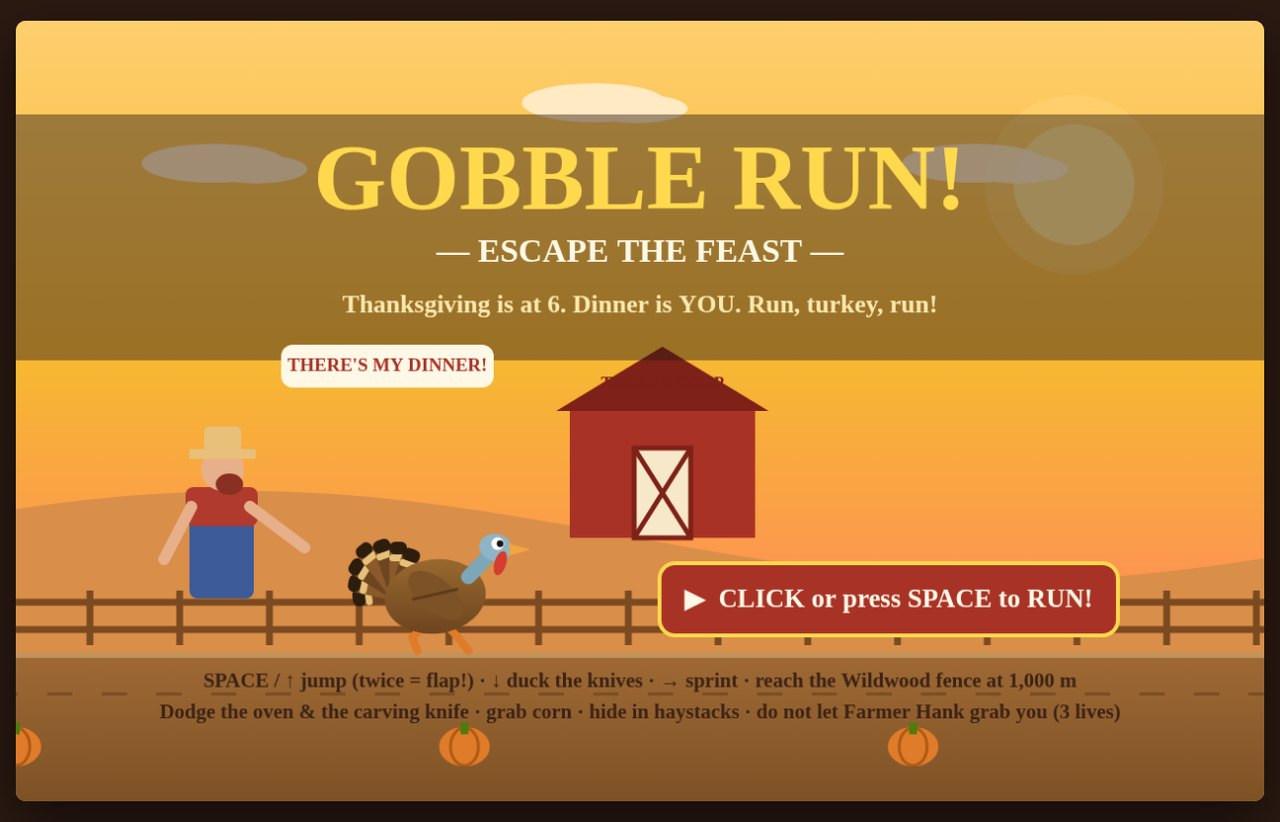
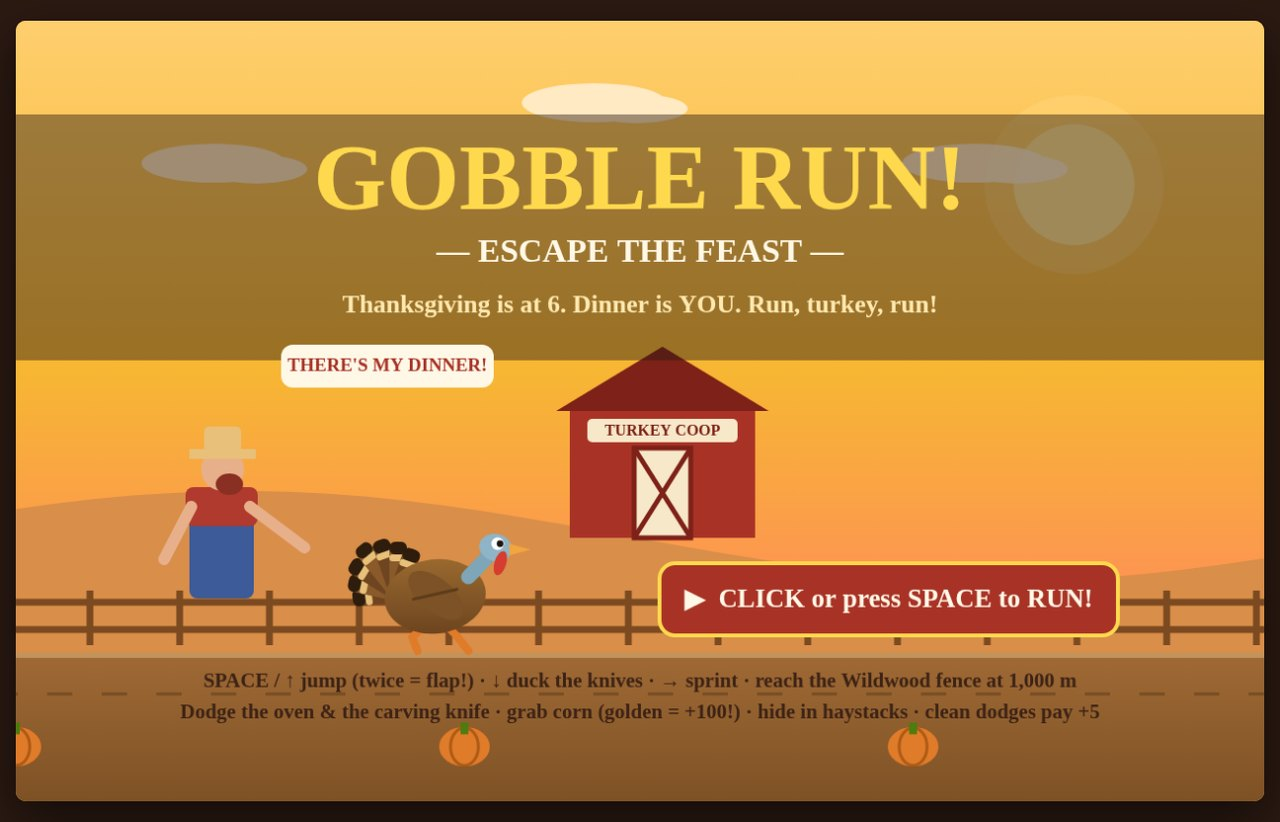
Gobble Run! v2: golden corn, dodge bonuses, floaters, polish

Changed region(s): [[0.125, 0.8516, 0.875, 0.882], [0.4375, 0.4866, 0.5938, 0.5474]]

diff --git a/game/src/render.js b/game/src/render.js
@@ -144,7 +144,10 @@ function drawBarn(ctx, x, baseY) {
   ctx.beginPath();
   ctx.moveTo(x + 66, baseY - 92); ctx.lineTo(x + 124, baseY); ctx.moveTo(x + 124, baseY - 92); ctx.lineTo(x + 66, baseY);
   ctx.stroke();
-  text(ctx, 'TURKEY COOP', x + 95, baseY - 158, 17, '#7e2118');
+  // cream sign on the barn wall, readable at a glance
+  ctx.fillStyle = '#f7e8c9';
+  roundRect(ctx, x + 18, baseY - 122, 154, 24, 5); ctx.fill();
+  text(ctx, 'TURKEY COOP', x + 95, baseY - 109, 16, '#7e2118');
 }
 
 function drawPumpkin(ctx, x, y, r) {
@@ -408,8 +411,14 @@ export function drawCorn(ctx, c, time) {
   const y = c.y + Math.sin(time * 3 + c.bob) * 5;
   ctx.save();
   ctx.translate(c.x, y);
+  if (c.golden) { // the golden corn glows and runs larger
+    const pulse = 1 + Math.sin(time * 6 + c.bob) * 0.1;
+    ctx.scale(1.45 * pulse, 1.45 * pulse);
+    ctx.fillStyle = 'rgba(255, 217, 77, 0.35)';
+    ctx.beginPath(); ctx.arc(0, 0, 34, 0, 6.29); ctx.fill();
+  }
   ctx.rotate(Math.sin(time * 2 + c.bob) * 0.16);
-  ctx.fillStyle = '#ffd94d';
+  ctx.fillStyle = c.golden ? '#ffbe1e' : '#ffd94d';
   ctx.beginPath(); ctx.ellipse(0, 0, 13, 24, 0, 0, 6.29); ctx.fill();
   ctx.strokeStyle = '#d9a514'; ctx.lineWidth = 2;
   for (let r = -14; r <= 14; r += 9) {
@@ -497,7 +506,7 @@ export function drawTitleScreen(ctx, run, pose) {
   text(ctx, '▶  CLICK or press SPACE to RUN!', 895, 594, 27, '#fff8e7');
   text(ctx, 'SPACE / ↑ jump (twice = flap!) · ↓ duck the knives · → sprint · reach the Wildwood fence at 1,000 m',
     VIEW_WIDTH / 2, 678, 21, '#3d2317');
-  text(ctx, 'Dodge the oven & the carving knife · grab corn · hide in haystacks · do not let Farmer Hank grab you (3 lives)',
+  text(ctx, 'Dodge the oven & the carving knife · grab corn (golden = +100!) · hide in haystacks · clean dodges pay +5',
     VIEW_WIDTH / 2, 710, 21, '#3d2317');
 }
 
@@ -562,6 +571,36 @@ export function drawEndScreen(ctx, run) {
   else text(ctx, 'Tip: a perfect run banks +100 per life left. Can you keep all three?', VIEW_WIDTH / 2, 610, 21, '#ffe9b0');
 }
 
+export function drawFloaters(ctx, run) {
+  for (const fl of run.floaters) {
+    ctx.save();
+    ctx.globalAlpha = Math.min(1, fl.life * 1.8);
+    ctx.font = "bold 21px Georgia, serif";
+    ctx.textAlign = 'center';
+    ctx.textBaseline = 'middle';
+    ctx.lineWidth = 4;
+    ctx.strokeStyle = 'rgba(43,26,18,0.8)';
+    ctx.strokeText(fl.label, fl.x, fl.y);
+    ctx.fillStyle = fl.colour;
+    ctx.fillText(fl.label, fl.x, fl.y);
+    ctx.restore();
+  }
+}
+
+export function drawSpeedLines(ctx, run) {
+  if (!run.sprinting || run.phase !== 'run') return;
+  ctx.strokeStyle = 'rgba(255, 248, 231, 0.5)';
+  ctx.lineWidth = 3;
+  for (let i = 0; i < 5; i++) {
+    const y = 240 + i * 78 + Math.sin(run.time * 31 + i * 2.1) * 9;
+    const len = 60 + ((i * 53) % 70);
+    ctx.beginPath();
+    ctx.moveTo(TURKEY.x - 130 - i * 26, y);
+    ctx.lineTo(TURKEY.x - 130 - i * 26 - len, y);
+    ctx.stroke();
+  }
+}
+
 export function drawScene(ctx, run, scroll) {
   const stage = stageAt(run.metres);
   if (stage === 'kitchen') drawKitchen(ctx, scroll, run.time);
@@ -579,9 +618,11 @@ export function drawScene(ctx, run, scroll) {
   }
   for (const ob of run.obstacles) drawObstacle(ctx, ob, run);
   for (const c of run.corns) if (!c.taken) drawCorn(ctx, c, run.time);
+  drawSpeedLines(ctx, run);
   drawFarmer(ctx, run);
   drawTurkey(ctx, run);
   drawParticles(ctx, run);
+  drawFloaters(ctx, run);
   drawHud(ctx, run);
   if (run.metres > KITCHEN_START_METRES - 12 && run.metres < KITCHEN_START_METRES + 8) {
     text(ctx, '— THROUGH THE KITCHEN! —', VIEW_WIDTH / 2, 220, 40, '#ffd94d');

diff --git a/game/src/world.js b/game/src/world.js
@@ -40,6 +40,9 @@ export function createRun() {
     obstacles: [],
     corns: [],
     particles: [],
+    floaters: [], // little score popups: "+25", "DODGED +5", "GOLDEN! +100"
+    dustIn: 0,
+    sprinting: false,
     nextSpawnIn: 340,
     events: [], // sound cues for main.js: gobble, flap, corn, stumble...
   };
@@ -65,13 +68,16 @@ function spawnPattern(run) {
     else push('knife', baseX, { swing: rand() * 6.28 });
   }
   // Corn trails arc over the hazards — a reason to jump bravely.
+  // About one trail in eight hides a golden corn: +100 and a big
+  // shove that knocks Hank back down the lane.
   if (rand() < 0.72) {
     const n = 3 + Math.floor(rand() * 3);
+    const goldenAt = rand() < 0.13 ? Math.floor(rand() * n) : -1;
     for (let i = 0; i < n; i++) {
       run.corns.push({
         x: baseX - 60 + i * 74,
         y: GROUND_Y - 120 - Math.sin((i / Math.max(1, n - 1)) * Math.PI) * 90,
-        taken: false, bob: rand() * 6.28,
+        taken: false, bob: rand() * 6.28, golden: i === goldenAt,
       });
     }
   }
@@ -169,12 +175,45 @@ export function stepRun(run, input, dt) {
     if (!c.taken && Math.abs(c.x - TURKEY.x) < 74 && Math.abs(c.y - (t.y - 52)) < 86) {
       c.taken = true;
       run.cornEaten += 1;
-      run.score += CORN_SCORE;
-      f.gap += FARMER.cornPushBack;
-      run.events.push('corn');
-      burstFeathers(run, 3, '#ffd94d');
+      if (c.golden) {
+        run.score += 100;
+        f.gap += 95;
+        addFloater(run, 'GOLDEN CORN! +100', '#ffd94d');
+        run.events.push('corn');
+        burstFeathers(run, 9, '#ffd94d');
+      } else {
+        run.score += CORN_SCORE;
+        f.gap += FARMER.cornPushBack;
+        run.events.push('corn');
+        burstFeathers(run, 3, '#ffd94d');
+      }
     }
   }
+
+  // --- clean dodges pay a little and say so --------------------------------
+  for (const ob of run.obstacles) {
+    if (ob.counted || ob.passed) continue;
+    if (ob.x < TURKEY.x - 70) {
+      ob.counted = true;
+      if (ob.kind !== 'haystack') {
+        run.score += 5;
+        addFloater(run, 'DODGED +5', '#b6ff7a');
+      }
+    }
+  }
+
+  // --- dust at his heels -----------------------------------------------------
+  run.sprinting = sprinting;
+  run.dustIn -= dt;
+  if (t.y >= GROUND_Y && run.dustIn <= 0) {
+    run.dustIn = 0.09;
+    run.particles.push({
+      x: TURKEY.x - 44, y: GROUND_Y - 4, vx: -90 - rand() * 90,
+      vy: -26 - rand() * 42, life: 0.34, colour: '#c9a06a',
+    });
+  }
+  for (const fl of run.floaters) { fl.y -= 44 * dt; fl.life -= dt; }
+  run.floaters = run.floaters.filter((fl) => fl.life > 0);
 
   // --- hazards --------------------------------------------------------------
   if (run.invincibleFor <= 0) {
@@ -226,6 +265,10 @@ export function stepRun(run, input, dt) {
 function showBanner(run, text) {
   run.banner = text;
   run.bannerFor = 1.6;
+}
+
+function addFloater(run, label, colour) {
+  run.floaters.push({ x: TURKEY.x + 26, y: run.turkey.y - 148, life: 0.95, label, colour });
 }
 
 function burstFeathers(run, count, colour = '#ffffff') {

diff --git a/game/src/shots.js b/game/src/shots.js
@@ -29,8 +29,11 @@ export function posedRun(name) {
     ];
     run.corns = [
       { x: 560, y: GROUND_Y - 240, taken: false, bob: 1 },
-      { x: 640, y: GROUND_Y - 262, taken: false, bob: 2 },
+      { x: 640, y: GROUND_Y - 262, taken: false, bob: 2, golden: true },
       { x: 720, y: GROUND_Y - 240, taken: false, bob: 3 },
+    ];
+    run.floaters = [
+      { x: 520, y: GROUND_Y - 316, life: 0.9, label: 'DODGED +5', colour: '#b6ff7a' },
     ];
     return { run, scroll: 238 * 46 };
   }
